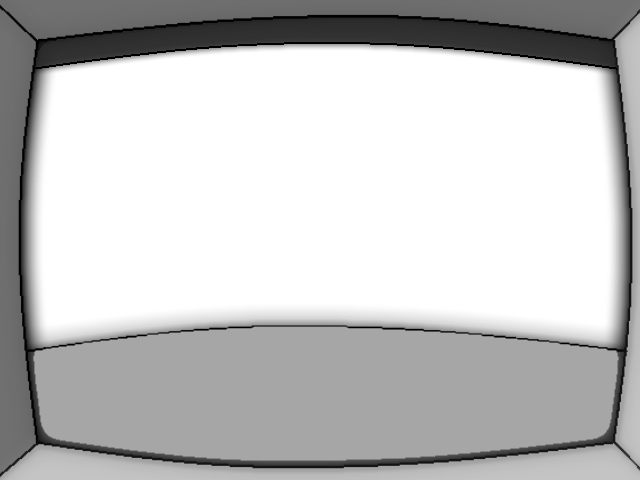
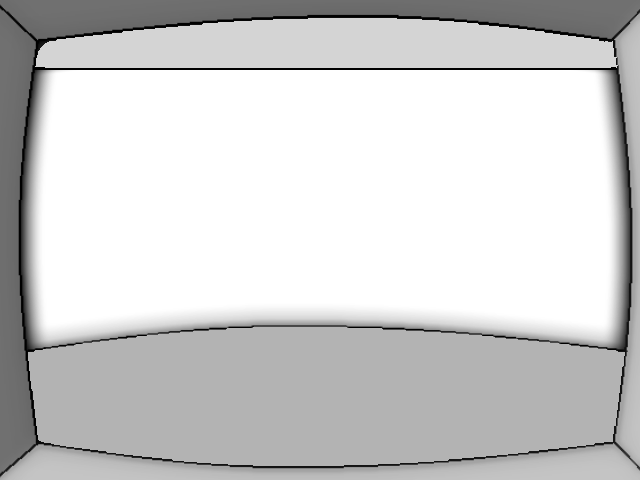
Changed background of combat to match space
Combat now uses the Starfx background.

Changed region(s): [[0.0312, 0.0312, 0.9688, 0.1562], [0.0312, 0.7188, 1.0, 0.9688]]

diff --git a/src/com/starshipsim/states/CombatState.java b/src/com/starshipsim/states/CombatState.java
@@ -13,6 +13,7 @@ import com.starshipsim.entities.Entity;
 import com.starshipsim.entities.Player;
 import com.starshipsim.entities.Ship;
 import com.starshipsim.graphics.ImageManager;
+import com.starshipsim.graphics.StarBackgroundFx;
 import com.starshipsim.interfaces.Enemy;
 import com.starshipsim.items.Item;
 import com.starshipsim.items.ItemExplosiveBomb;
@@ -55,7 +56,7 @@ public class CombatState extends State {
 	private int currentOption = 0;
 	private ArrayList<Item> items=new ArrayList<>();
 	private ArrayList<Entity> effects=new ArrayList<>();
-	
+	private StarBackgroundFx bg = new StarBackgroundFx(100, 1920, 1080);
 	public CombatState(StateManager manager, CombatData data) {
 		super(manager);
 		this.keyboard = manager.getKeyboard();
@@ -78,6 +79,7 @@ public class CombatState extends State {
 
 	@Override
 	public void update() {
+		bg.update();
 		if(xshift>dxshift){
 			xshift-=15;
 		}
@@ -108,7 +110,7 @@ public class CombatState extends State {
 	public void draw(Graphics g) {
 		Canvas canvas = this.getCanvas();
 		
-		g.drawImage(ImageManager.spaceBg2, xshift-450, 0, null);
+		bg.draw(g);
 		drawExit(g);
 		
 		drawEnemyShips(g, canvas);
@@ -199,9 +201,9 @@ public class CombatState extends State {
 		g.drawImage(ImageManager.ship, cursorX, cursorY, null);
 		g.drawString(("Health: "+ship.getDurability()+"/"+ship.getMaxDurability()), 200, 125);
 		g.setColor(Color.green);
-		g.fillRoundRect(1600, 125, shield.getCurrentDurability()*2, 50, 10, 10);
+		g.fillRoundRect(1600, 96, shield.getCurrentDurability()*2, 50, 10, 10);
 		g.setColor(Color.white);
-		g.drawRoundRect(1600, 125, shield.getMaxDurability()*2, 50, 10, 10);
+		g.drawRoundRect(1600, 96, shield.getMaxDurability()*2, 50, 10, 10);
 	}
 	
 	private void drawEnemyShips(Graphics g, Canvas canvas) {

diff --git a/src/com/starshipsim/items/ItemFuel.java b/src/com/starshipsim/items/ItemFuel.java
@@ -14,5 +14,4 @@ public class ItemFuel extends Item {
 		setDescription("Fuel allows to explore the galaxy. Run out of it and you'll be stranded.");
 		setIndex(0);
 	}
-	
 }
